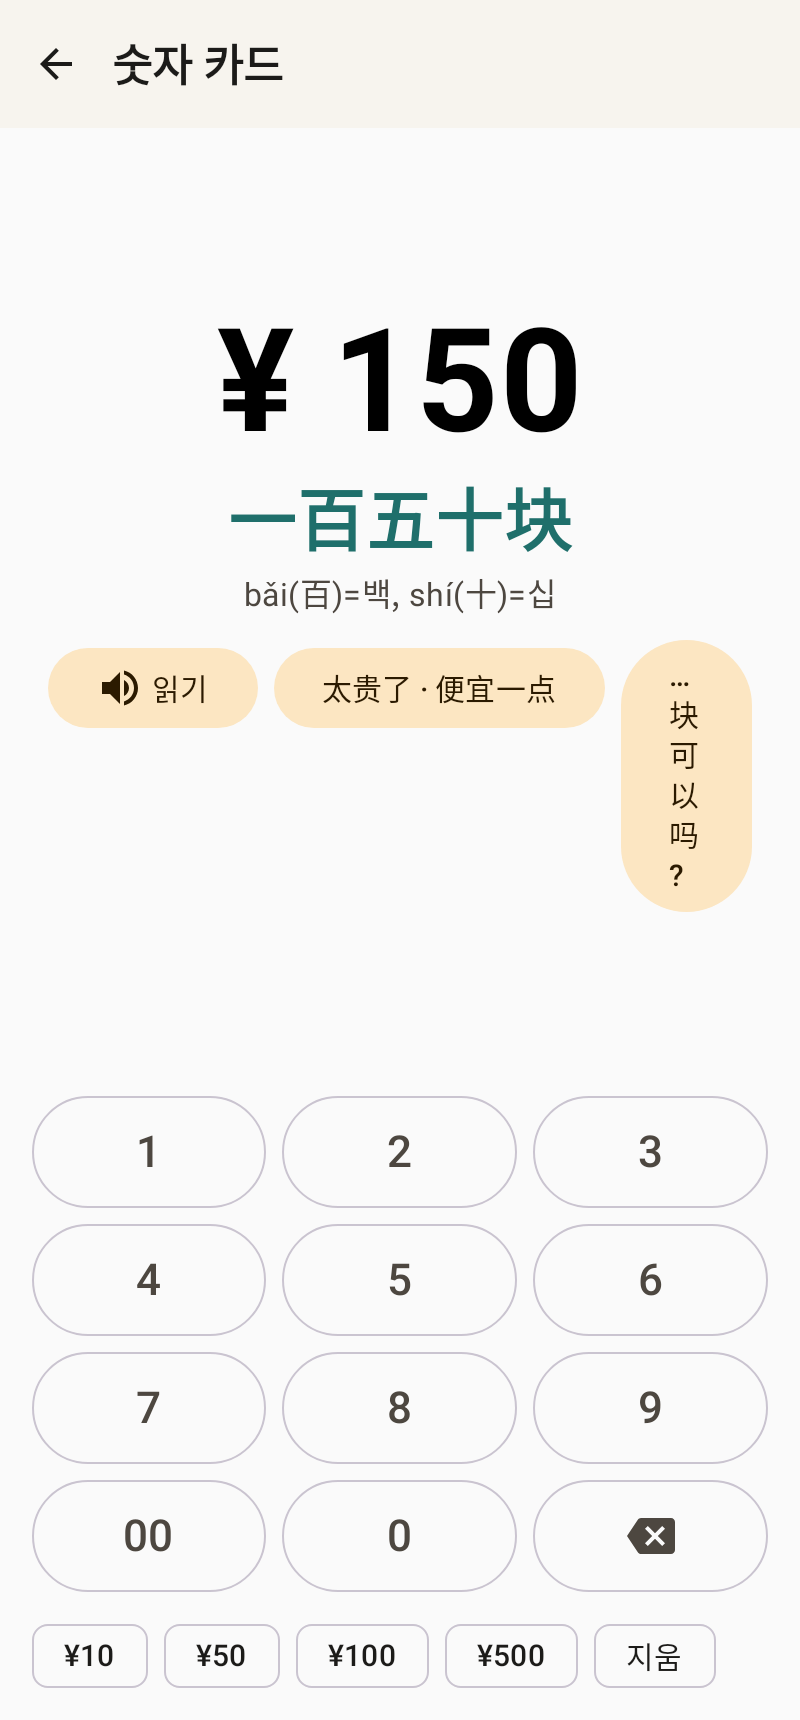
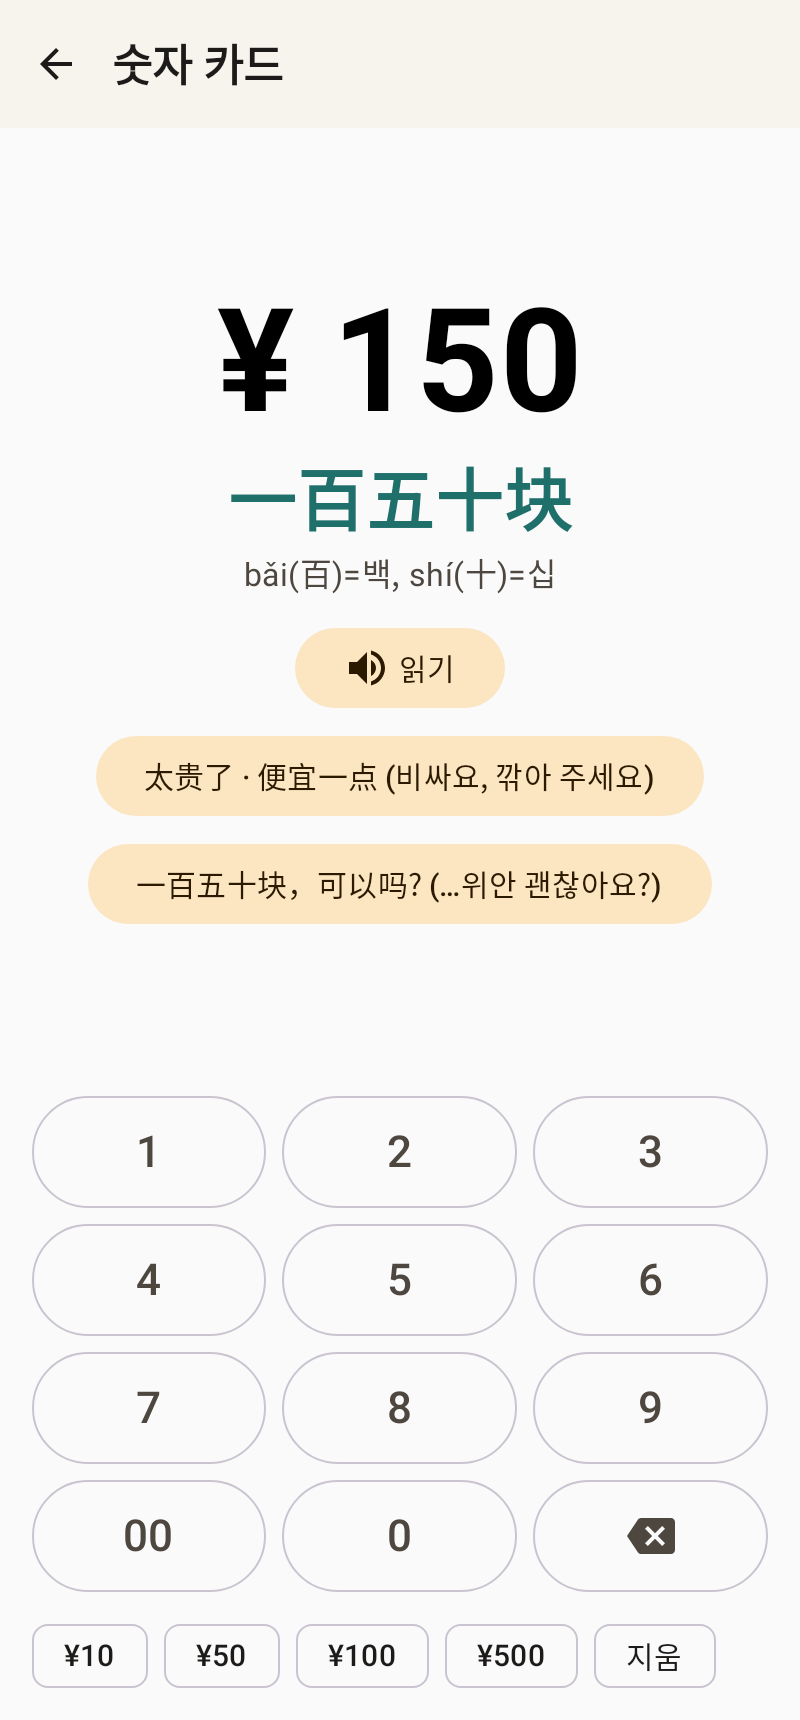
숫자 카드 버튼 줄바꿈 정리
Claude-Session: https://claude.ai/code/session_01RqJ3Se7kzhbz5fxXJgdegj

Changed region(s): [[0.0625, 0.1541, 0.9375, 0.5547], [0.2812, 0.1541, 0.375, 0.2465]]

diff --git a/android/app/src/main/java/kr/koasis/travelyunnan/ui/number/NumberCardScreen.kt b/android/app/src/main/java/kr/koasis/travelyunnan/ui/number/NumberCardScreen.kt
@@ -25,6 +25,7 @@ fun NumberCardScreen(vm: AppViewModel) {
     NumberCardContent(onSpeak = { text -> vm.speak("num-${text.hashCode()}", text) })
 }
 
+@OptIn(androidx.compose.foundation.layout.ExperimentalLayoutApi::class)
 @Composable
 fun NumberCardContent(onSpeak: (String) -> Boolean) {
     val actions = LocalActions.current
@@ -39,10 +40,10 @@ fun NumberCardContent(onSpeak: (String) -> Boolean) {
             Text("${reading}块", fontSize = 34.sp, fontWeight = FontWeight.SemiBold, color = MaterialTheme.colorScheme.primary, textAlign = TextAlign.Center, lineHeight = 44.sp)
             Text(ChineseNumber.pinyinHint(n), style = MaterialTheme.typography.bodyMedium, color = MaterialTheme.colorScheme.onSurfaceVariant)
             Spacer(Modifier.height(12.dp))
-            Row(horizontalArrangement = Arrangement.spacedBy(8.dp)) {
+            FlowRow(horizontalArrangement = Arrangement.spacedBy(8.dp, Alignment.CenterHorizontally), verticalArrangement = Arrangement.spacedBy(6.dp)) {
                 FilledTonalButton(onClick = { onSpeak("${reading}块") }) { Icon(Icons.AutoMirrored.Filled.VolumeUp, null); Spacer(Modifier.width(4.dp)); Text("읽기") }
-                FilledTonalButton(onClick = { onSpeak("太贵了，便宜一点吧。") }) { Text("太贵了 · 便宜一点") }
-                FilledTonalButton(onClick = { onSpeak("${reading}块，可以吗？") }) { Text("…块可以吗?") }
+                FilledTonalButton(onClick = { onSpeak("太贵了，便宜一点吧。") }) { Text("太贵了 · 便宜一点 (비싸요, 깎아 주세요)") }
+                FilledTonalButton(onClick = { onSpeak("${reading}块，可以吗？") }) { Text("${reading}块，可以吗? (…위안 괜찮아요?)") }
             }
         }
         // 키패드
